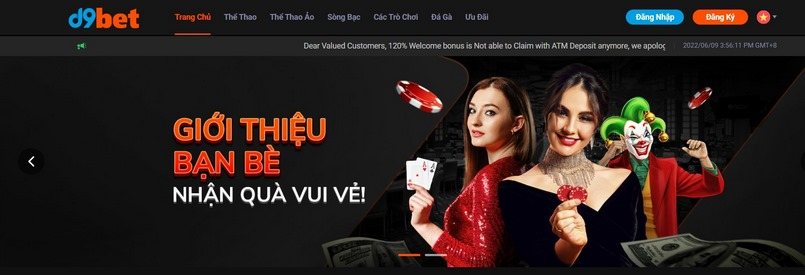
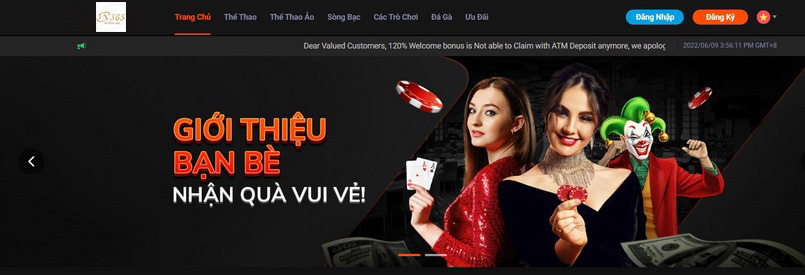
update

diff --git a/khuyen-mai.html b/khuyen-mai.html
@@ -13,6 +13,7 @@
     ></script>
     <link rel="stylesheet" href="style.css" />
     <script src="https://cdn.tailwindcss.com"></script>
+    <link rel="icon" href="./Images/logotitle.png" />
     <title>Khuyến mãi VN365s hấp dẫn và giá trị mà người chơi không thể bỏ qua</title>
   </head>
   <body class="bg-[#EFEFEF]">

diff --git a/dang-ky.html b/dang-ky.html
@@ -13,6 +13,7 @@
     ></script>
     <link rel="stylesheet" href="style.css" />
     <script src="https://cdn.tailwindcss.com"></script>
+    <link rel="icon" href="./Images/logotitle.png" />
     <title>Hướng dẫn đăng ký VN365s với các bước cực kỳ đơn giản</title>
   </head>
   <body class="bg-[#EFEFEF]">

diff --git a/nap-tien.html b/nap-tien.html
@@ -13,6 +13,7 @@
     ></script>
     <link rel="stylesheet" href="style.css" />
     <script src="https://cdn.tailwindcss.com"></script>
+    <link rel="icon" href="./Images/logotitle.png" />
     <title>6 cách nạp tiền VN365s cực kỳ chi tiết cho người chơi mới</title>
   </head>
   <body class="bg-[#EFEFEF]">

diff --git a/rut-tien.html b/rut-tien.html
@@ -13,6 +13,7 @@
     ></script>
     <link rel="stylesheet" href="style.css" />
     <script src="https://cdn.tailwindcss.com"></script>
+    <link rel="icon" href="./Images/logotitle.png" />
     <title>Hướng dẫn rút tiền VN365s và đánh giá tổng quan về VN365s</title>
   </head>
   <body class="bg-[#EFEFEF]">

diff --git a/index.html b/index.html
@@ -13,6 +13,7 @@
     ></script>
     <link rel="stylesheet" href="style.css" />
     <script src="https://cdn.tailwindcss.com"></script>
+    <link rel="icon" href="./Images/logotitle.png" />
     <title>VN365s XYZ - Link Vào Nhà Cái VN365s Mới Nhất 2022</title>
   </head>
   <body class="bg-[#EFEFEF]">

diff --git a/cach-chia-bai-ba-cay-diem-cao.html b/cach-chia-bai-ba-cay-diem-cao.html
@@ -13,6 +13,7 @@
     ></script>
     <link rel="stylesheet" href="style.css" />
     <script src="https://cdn.tailwindcss.com"></script>
+    <link rel="icon" href="./Images/logotitle.png" />
     <title>Thủ Thuật Cá Cược - VN365s XYZ</title>
   </head>
   <body class="bg-[#EFEFEF]">

diff --git a/thu-thuat-ca-cuoc.html b/thu-thuat-ca-cuoc.html
@@ -13,6 +13,7 @@
     ></script>
     <link rel="stylesheet" href="style.css" />
     <script src="https://cdn.tailwindcss.com"></script>
+    <link rel="icon" href="./Images/logotitle.png" />
     <title>Thủ Thuật Cá Cược - VN365s Biz</title>
   </head>
   <body class="bg-[#EFEFEF]">

diff --git a/cach-bat-keo-trong-bong-da.html b/cach-bat-keo-trong-bong-da.html
@@ -13,6 +13,7 @@
     ></script>
     <link rel="stylesheet" href="style.css" />
     <script src="https://cdn.tailwindcss.com"></script>
+    <link rel="icon" href="./Images/logotitle.png" />
     <title>cach-danh-dau-duoi-mien-bac</title>
   </head>
   <body class="bg-[#EFEFEF]">

diff --git a/cach-danh-dau-duoi-mien-bac.html b/cach-danh-dau-duoi-mien-bac.html
@@ -13,6 +13,7 @@
     ></script>
     <link rel="stylesheet" href="style.css" />
     <script src="https://cdn.tailwindcss.com"></script>
+    <link rel="icon" href="./Images/logotitle.png" />
     <title>cach-danh-dau-duoi-mien-bac</title>
   </head>
   <body class="bg-[#EFEFEF]">

diff --git a/nhung-luu-y-khi-choi-bai-mau-binh-can-ghi-nho.html b/nhung-luu-y-khi-choi-bai-mau-binh-can-ghi-nho.html
@@ -13,6 +13,7 @@
     ></script>
     <link rel="stylesheet" href="style.css" />
     <script src="https://cdn.tailwindcss.com"></script>
+    <link rel="icon" href="./Images/logotitle.png" />
     <title>cach-danh-dau-duoi-mien-bac</title>
   </head>
   <body class="bg-[#EFEFEF]">
